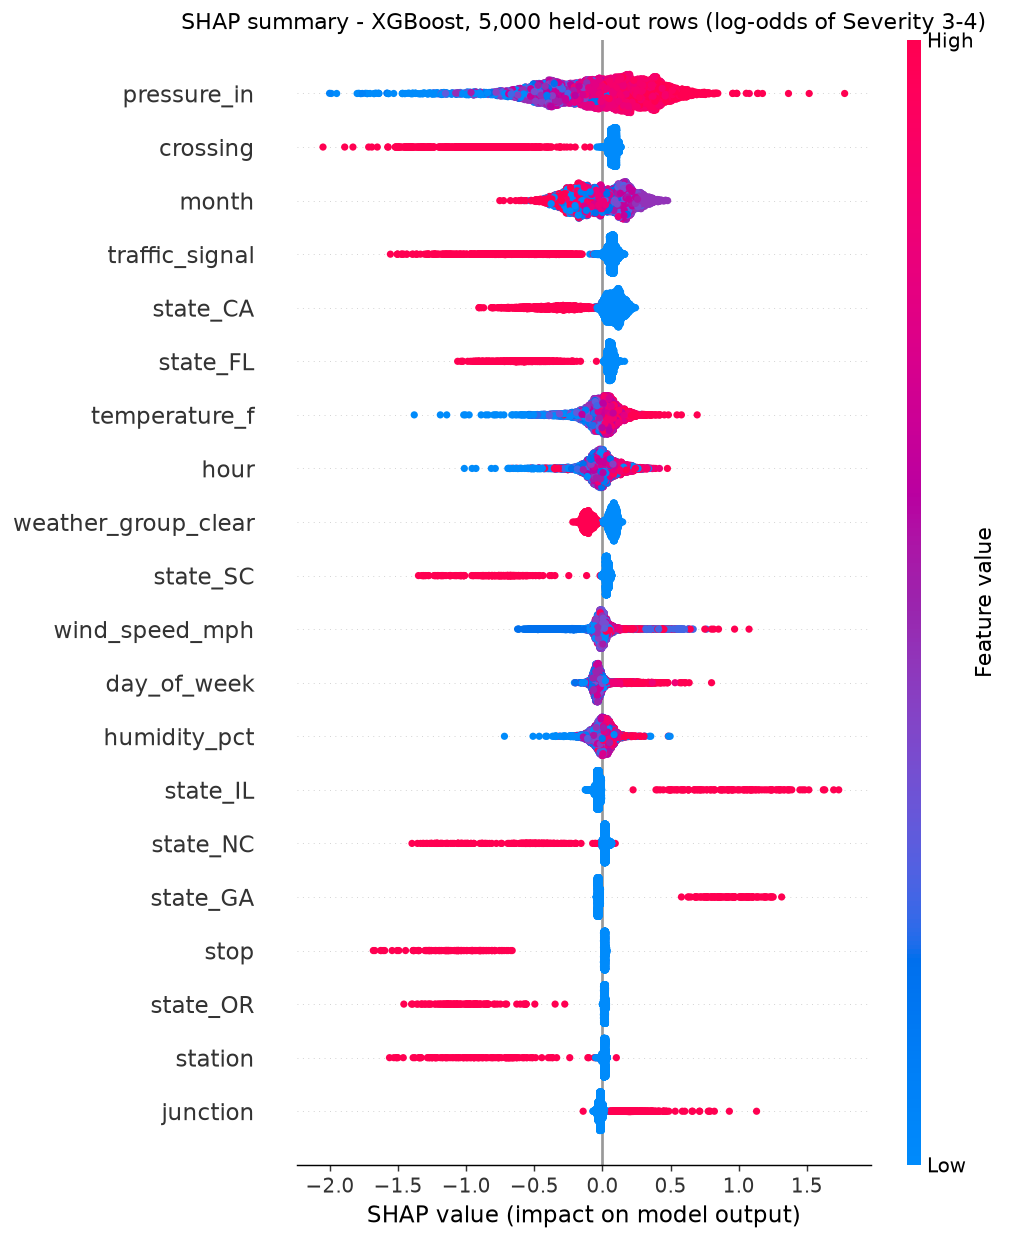
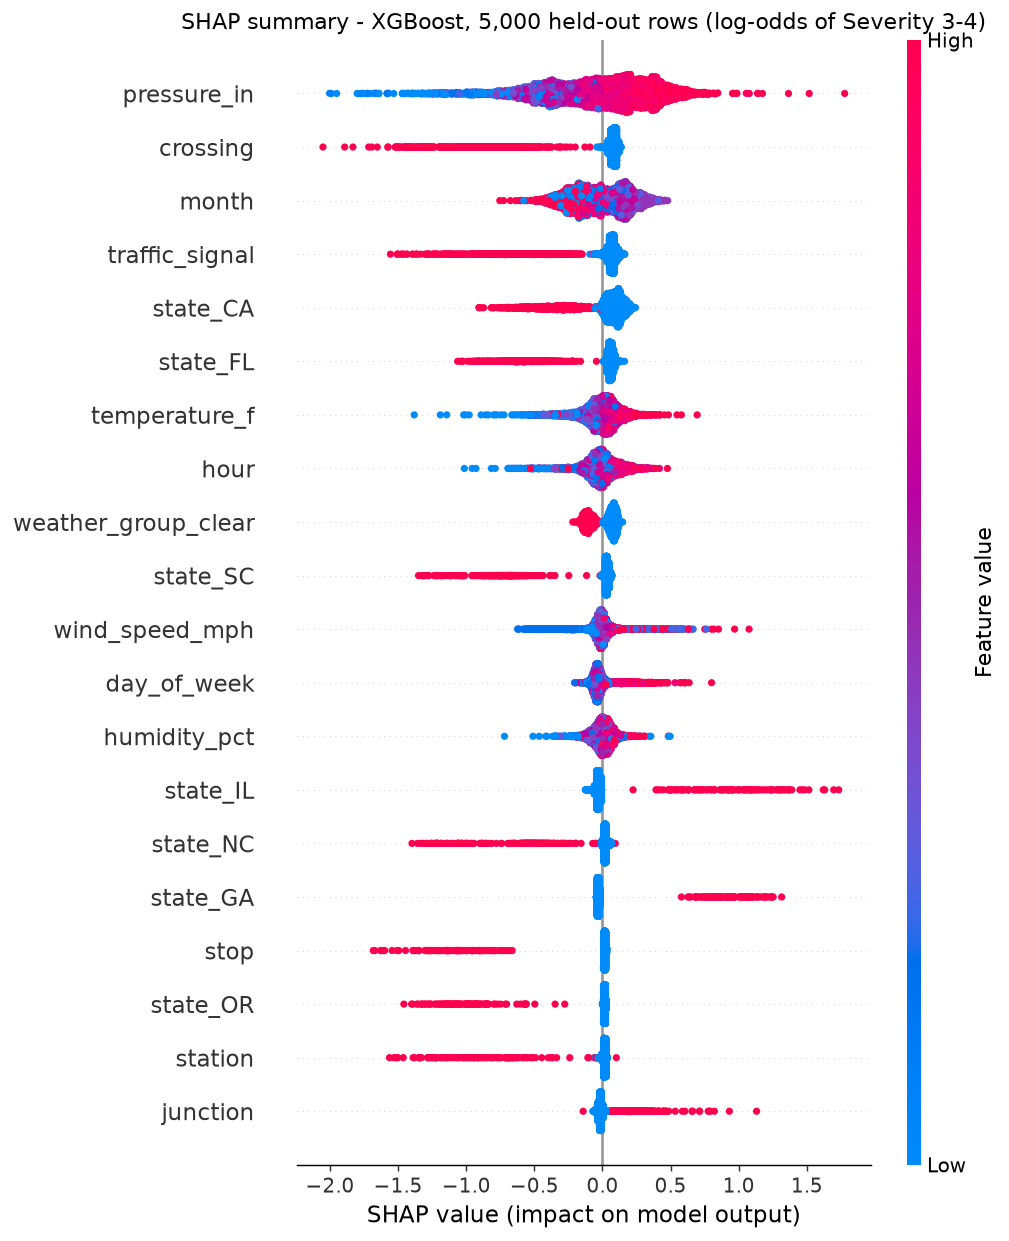
Add Streamlit demo and CLI; quote road features only when present

diff --git a/app.py b/app.py
@@ -1,0 +1,49 @@
+"""RoadMind demo. Run: streamlit run app.py   (requires trained models: python -m roadmind.train)"""
+import pandas as pd
+import streamlit as st
+
+from roadmind.explain import explain_prediction
+
+st.set_page_config(page_title="RoadMind", page_icon="🚗")
+st.title("RoadMind - explainable road-risk co-pilot")
+st.caption("Research prototype trained on US Accidents (2016-2023, CC BY-NC-SA 4.0). Estimates how likely an accident "
+           "under these conditions is to cause a HIGH traffic-delay impact - not the chance that an accident happens. "
+           "Decision support only.")
+
+WEATHER = ["Fair", "Clear", "Mostly Cloudy", "Partly Cloudy", "Cloudy", "Overcast", "Light Rain", "Rain", "Heavy Rain",
+           "Light Drizzle", "Thunderstorm", "Light Snow", "Snow", "Heavy Snow", "Freezing Rain", "Fog", "Haze", "Smoke"]
+STATES = sorted("AL AZ AR CA CO CT DE FL GA ID IL IN IA KS KY LA ME MD MA MI MN MS MO MT NE NV NH NJ NM NY NC ND OH OK "
+                "OR PA RI SC SD TN TX UT VT VA WA WV WI WY DC".split())
+DAYS = ["Mon", "Tue", "Wed", "Thu", "Fri", "Sat", "Sun"]
+
+with st.sidebar:
+    st.header("Conditions")
+    weather = st.selectbox("Weather", WEATHER)
+    temp = st.slider("Temperature (F)", -20, 120, 65)
+    vis = st.slider("Visibility (mi)", 0.0, 10.0, 10.0, 0.5)
+    wind = st.slider("Wind speed (mph)", 0, 60, 5)
+    precip = st.slider("Precipitation (in/hr)", 0.0, 1.0, 0.0, 0.01)
+    humidity = st.slider("Humidity (%)", 0, 100, 60)
+    pressure = st.slider("Pressure (in)", 27.0, 31.0, 29.9, 0.05)
+    hour = st.slider("Hour of day", 0, 23, 17)
+    dow = st.selectbox("Day of week", range(7), index=2, format_func=lambda i: DAYS[i])
+    month = st.slider("Month", 1, 12, 6)
+    state = st.selectbox("State", STATES, index=STATES.index("CA"))
+    st.subheader("Road features nearby")
+    poi = {k: st.checkbox(k.replace("_", " ").title()) for k in
+           ["junction", "traffic_signal", "crossing", "stop", "railway", "roundabout"]}
+
+res = explain_prediction({"weather_condition": weather, "temperature_f": temp, "visibility_mi": vis,
+                          "wind_speed_mph": wind, "precipitation_in": precip, "humidity_pct": humidity,
+                          "pressure_in": pressure, "hour": hour, "day_of_week": dow, "month": month,
+                          "state": state, **poi}, top_k=6)
+
+color = {"High": "red", "Medium": "orange", "Low": "green"}[res["risk_level"]]
+st.markdown(f"## :{color}[{res['risk_level'].upper()} RISK]")
+st.text(res["suggested_message"])
+st.subheader("Top SHAP factors")
+df = pd.DataFrame(res["top_factors"])[["description", "direction", "shap_log_odds"]]
+st.dataframe(df, hide_index=True, width='stretch')
+st.bar_chart(df.set_index("description")["shap_log_odds"])
+st.caption(f"Model score {res['probability']:.3f} (uncalibrated outside the training data; the tier is what matters). "
+           "SHAP values are in log-odds; positive = pushes toward a high-impact outcome.")

diff --git a/src/roadmind/cli.py b/src/roadmind/cli.py
@@ -1,0 +1,29 @@
+"""CLI demo. Example:
+python -m roadmind.cli --weather Fog --visibility 0.5 --hour 23 --state TX --temp 45 --precip 0.05"""
+import argparse
+
+from roadmind.explain import explain_prediction
+
+ap = argparse.ArgumentParser(description="RoadMind risk co-pilot")
+ap.add_argument("--weather", default="Fair")
+ap.add_argument("--temp", type=float)
+ap.add_argument("--visibility", type=float)
+ap.add_argument("--wind", type=float)
+ap.add_argument("--precip", type=float)
+ap.add_argument("--humidity", type=float)
+ap.add_argument("--pressure", type=float)
+ap.add_argument("--hour", type=int, default=12)
+ap.add_argument("--dow", type=int, default=2, help="0=Mon ... 6=Sun")
+ap.add_argument("--month", type=int, default=6)
+ap.add_argument("--state", default="CA")
+ap.add_argument("--poi", nargs="*", default=[], help="junction traffic_signal crossing stop railway roundabout")
+a = ap.parse_args()
+r = explain_prediction({"weather_condition": a.weather, "temperature_f": a.temp, "visibility_mi": a.visibility,
+                        "wind_speed_mph": a.wind, "precipitation_in": a.precip, "humidity_pct": a.humidity,
+                        "pressure_in": a.pressure, "hour": a.hour, "day_of_week": a.dow, "month": a.month,
+                        "state": a.state, **{p: True for p in a.poi}}, top_k=6)
+print(r["suggested_message"])
+print(f"\nModel score: {r['probability']} (tier thresholds come from training data)")
+print("Top SHAP factors (log-odds):")
+for f in r["top_factors"]:
+    print(f"  {f['shap_log_odds']:+.3f}  {f['description']}  [{f['direction']}]")

diff --git a/src/roadmind/explain.py b/src/roadmind/explain.py
@@ -16,6 +16,8 @@ from roadmind.config import MODELS_DIR, PROCESSED_DIR, REPORTS_DIR
 from roadmind.features import CATEGORICAL, FEATURES, TARGET, engineer
 from roadmind.preprocess import make_splits
 
+FLAGS_POI = {"junction", "traffic_signal", "crossing", "stop", "give_way", "railway", "roundabout", "station",
+             "amenity", "bump", "no_exit", "traffic_calming"}
 MODEL_PATH = MODELS_DIR / "stratified_xgboost.joblib"
 
 # Driver-facing wording for a feature that pushes risk UP. value -> phrase (None = not noteworthy).
@@ -117,7 +119,9 @@ def explain_prediction(input_dict: dict, top_k: int = 4) -> dict:
                         "description": _phrase(f, v) if given else f"{f.replace('_', ' ')} not provided (typical value assumed)",
                         "shap_log_odds": round(s, 4), "provided": given,
                         "direction": "raises risk" if s > 0 else "lowers risk"})
-    raising = [f["description"] for f in factors if f["shap_log_odds"] > 0 and f["provided"]]
+    # Road-feature flags are only quoted as a reason when the feature is present (not "no crossing nearby").
+    absent_poi = lambda f: f["feature"] in FLAGS_POI and not f["value"]
+    raising = [f["description"] for f in factors if f["shap_log_odds"] > 0 and f["provided"] and not absent_poi(f)]
     reasons = " • ".join(raising) if raising else "No single condition stands out"
     msg = f"{level.upper()} RISK\n{HEADLINE[level]}\nReasons: {reasons}\nSuggested response: {RESPONSE[level]}"
     return {"risk_level": level, "probability": round(p, 4), "top_factors": factors,
